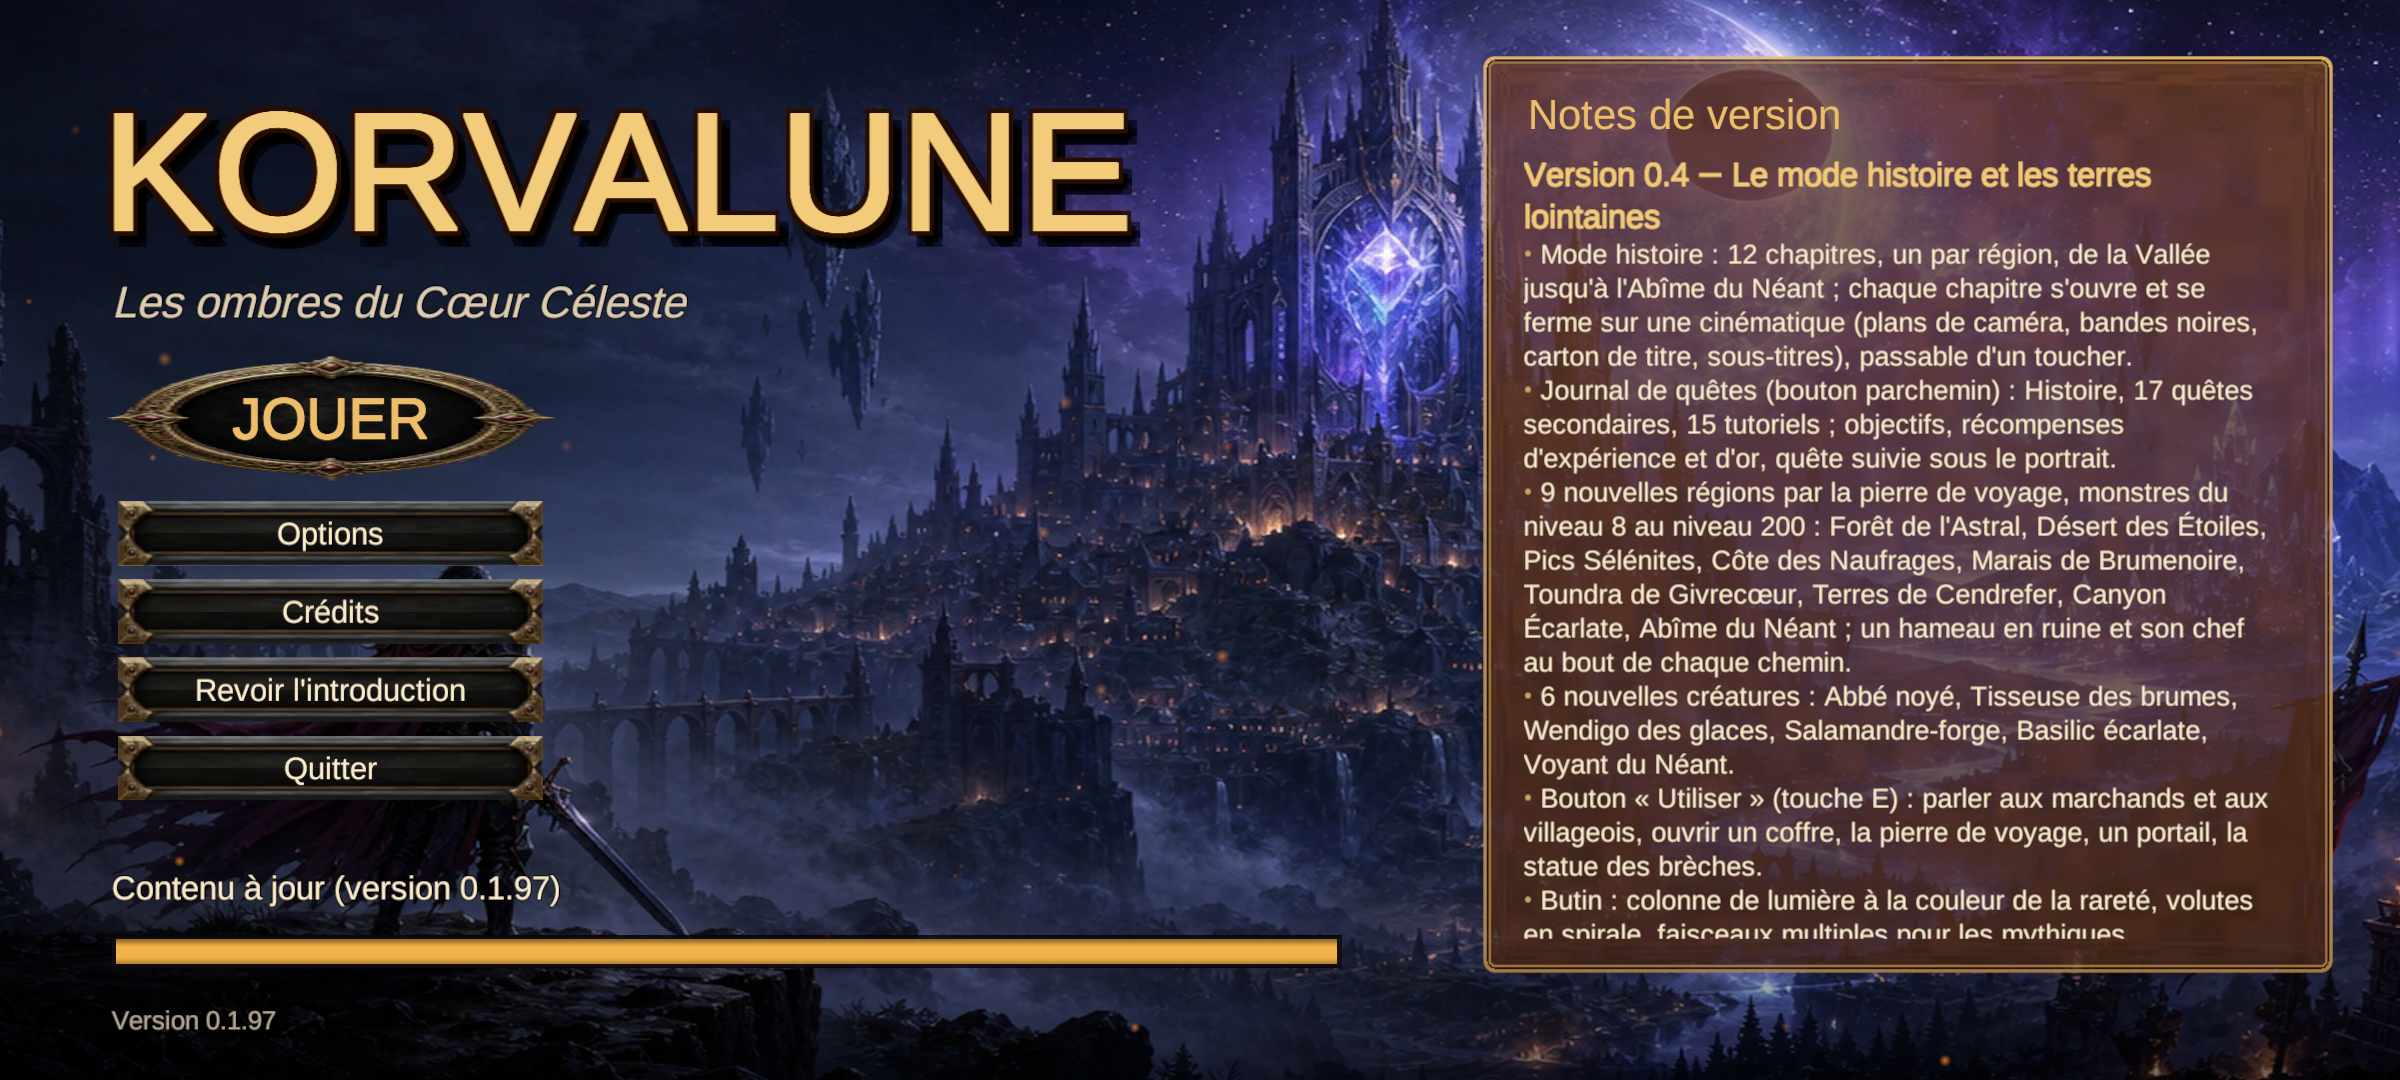
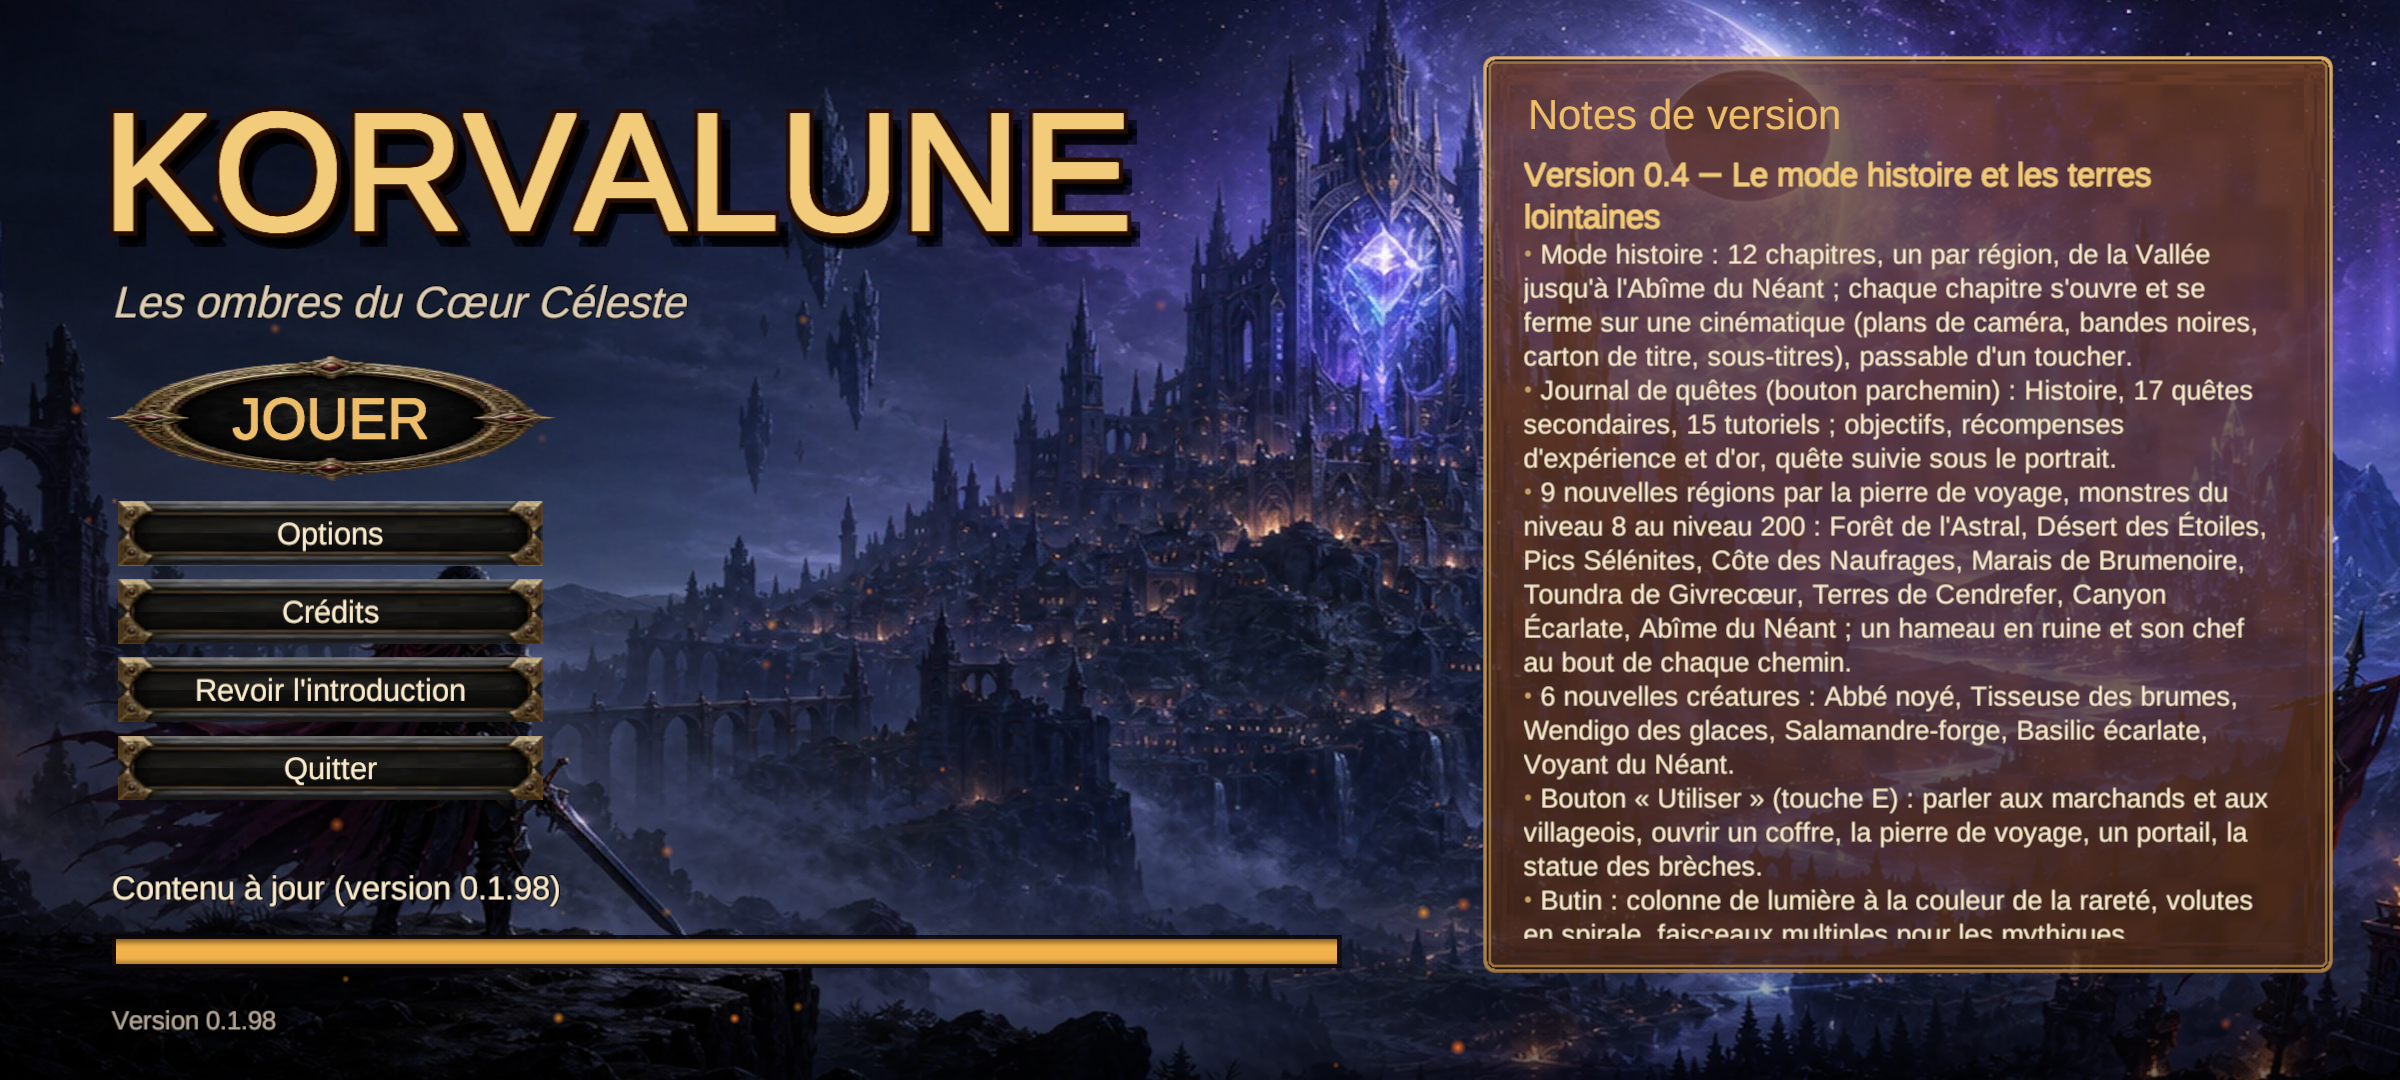
Android : APK construit et testé dans l'émulateur [skip ci]

diff --git a/ci-out/android/build.md b/ci-out/android/build.md
@@ -3,8 +3,8 @@
 - Scènes : Korvalune_Lanceur, Korvalune_Selection, CharacterCreator, Korvalune_Vallee, Korvalune_Crypte, Korvalune_Terriers, Korvalune_Eclipse, Korvalune_Breche, Korvalune_Foret, Korvalune_Desert, Korvalune_Pics, Korvalune_Cote, Korvalune_Marais, Korvalune_Toundra, Korvalune_Volcan, Korvalune_Canyon, Korvalune_Abime
 - Signature : clé Korvalune (mises à jour sans désinstaller)
 - Icône : Assets/Korvalune/Resources/UI/Icone.png
-- Contenu téléchargeable : 100 paquets, 722 Mo (release contenu-97)
-    - scenes : 146.4 Mo
+- Contenu téléchargeable : 100 paquets, 722 Mo (release contenu-98)
+    - scenes : 146.3 Mo
     - art_catalog_models : 58.3 Mo
     - art_catalog_skins : 34.6 Mo
     - art_heroes_varek_f : 19.0 Mo
@@ -16,8 +16,8 @@
     - art_heroes_kaeldraven_f : 17.2 Mo
     - art_heroes_kaeldraven_m : 16.7 Mo
     - art_heroes_tharion_f : 16.7 Mo
-- Résultat : **Succeeded** en 1.6 min, 0 erreur(s), 12 avertissement(s)
-- APK : 89.5 Mo, version 0.1.97
+- Résultat : **Succeeded** en 4.3 min, 0 erreur(s), 12 avertissement(s)
+- APK : 89.6 Mo, version 0.1.98
 
 ## Contenu empaqueté : 35 Mo
 - Texture2D : 23.0 Mo (295)
@@ -67,46 +67,46 @@
 
 ## Mémoire pendant la construction (dernières mesures)
 ```
-11:45:28 ram 4769/15983 swap 5/16383  3031892 Unity 453712 dotnet 
-11:45:33 ram 4694/15983 swap 5/16383  2838348 Unity 453712 dotnet 
-11:45:38 ram 4694/15983 swap 5/16383  2856752 Unity 453712 dotnet 
-11:45:43 ram 4690/15983 swap 5/16383  2889452 Unity 453688 dotnet 
-11:45:48 ram 4693/15983 swap 5/16383  2931800 Unity 453688 dotnet 
-11:45:53 ram 4946/15983 swap 5/16383  3185948 Unity 453712 dotnet 
-11:45:58 ram 5284/15983 swap 5/16383  3524672 Unity 453712 dotnet 
-11:46:03 ram 5698/15983 swap 5/16383  3940780 Unity 453712 dotnet 
-11:46:08 ram 5534/15983 swap 5/16383  3593472 Unity 453712 dotnet 
-11:46:13 ram 5482/15983 swap 5/16383  3723768 Unity 453692 dotnet 
-11:46:18 ram 5659/15983 swap 5/16383  3906480 Unity 453692 dotnet 
-11:46:24 ram 5486/15983 swap 5/16383  3743064 Unity 453692 dotnet 
-11:46:29 ram 5488/15983 swap 5/16383  3720884 Unity 453712 dotnet 
-11:46:34 ram 5474/15983 swap 5/16383  3758056 Unity 453712 dotnet 
-11:46:39 ram 5642/15983 swap 5/16383  3783672 Unity 453712 dotnet 
-11:46:44 ram 5641/15983 swap 5/16383  3918216 Unity 453692 dotnet 
-11:46:49 ram 5641/15983 swap 5/16383  3918216 Unity 453692 dotnet 
-11:46:54 ram 5640/15983 swap 5/16383  3918216 Unity 453712 dotnet 
-11:46:59 ram 5786/15983 swap 5/16383  3918300 Unity 453712 dotnet 
-11:47:04 ram 5823/15983 swap 5/16383  3839024 Unity 453712 dotnet 
-11:47:09 ram 5974/15983 swap 5/16383  3892336 Unity 453712 dotnet 
-11:47:14 ram 6025/15983 swap 5/16383  3897636 Unity 453692 dotnet 
-11:47:19 ram 6113/15983 swap 5/16383  3897636 Unity 453692 dotnet 
-11:47:24 ram 6121/15983 swap 5/16383  3897608 Unity 453692 dotnet 
-11:47:29 ram 6180/15983 swap 5/16383  3897608 Unity 453692 dotnet 
-11:47:34 ram 6351/15983 swap 5/16383  3897604 Unity 606108 java 
-11:47:39 ram 6293/15983 swap 5/16383  3897592 Unity 531844 java 
-11:47:44 ram 6362/15983 swap 5/16383  3897584 Unity 611332 java 
-11:47:49 ram 7051/15983 swap 5/16383  3897540 Unity 1228424 java 
-11:47:54 ram 7094/15983 swap 5/16383  3897512 Unity 1359904 java 
-11:47:59 ram 7409/15983 swap 5/16383  3897496 Unity 1432608 java 
-11:48:04 ram 7421/15983 swap 5/16383  3897472 Unity 1513520 java 
-11:48:09 ram 7294/15983 swap 5/16383  3897460 Unity 1576260 java 
-11:48:14 ram 7379/15983 swap 5/16383  3897460 Unity 1648028 java 
-11:48:19 ram 7430/15983 swap 5/16383  3897460 Unity 1668708 java 
-11:48:24 ram 7511/15983 swap 5/16383  3897460 Unity 1716392 java 
-11:48:29 ram 7503/15983 swap 5/16383  3897460 Unity 1711600 java 
-11:48:34 ram 7394/15983 swap 5/16383  3893400 Unity 1627276 java 
-11:48:39 ram 5552/15983 swap 5/16383  3727772 Unity 453860 dotnet 
-11:48:44 ram 1975/15983 swap 5/16383  453840 dotnet 339700 dotnet 
+18:17:58 ram 6490/15983 swap 5/16383  3905008 Unity 539468 clang++ 
+18:18:03 ram 6143/15983 swap 5/16383  3905008 Unity 454044 dotnet 
+18:18:08 ram 6089/15983 swap 5/16383  3905008 Unity 454056 dotnet 
+18:18:13 ram 6218/15983 swap 5/16383  3905008 Unity 454056 dotnet 
+18:18:18 ram 6488/15983 swap 5/16383  3905008 Unity 454056 dotnet 
+18:18:23 ram 6498/15983 swap 5/16383  3905012 Unity 454204 clang++ 
+18:18:28 ram 6491/15983 swap 5/16383  3905012 Unity 546648 clang++ 
+18:18:33 ram 6918/15983 swap 5/16383  3905012 Unity 826460 clang++ 
+18:18:39 ram 7015/15983 swap 5/16383  3905012 Unity 1081208 clang++ 
+18:18:44 ram 6163/15983 swap 5/16383  3905012 Unity 454184 dotnet 
+18:18:49 ram 6214/15983 swap 5/16383  3905012 Unity 454184 dotnet 
+18:18:54 ram 6251/15983 swap 5/16383  3905012 Unity 454184 dotnet 
+18:18:59 ram 5801/15983 swap 5/16383  3905012 Unity 454160 dotnet 
+18:19:04 ram 5805/15983 swap 5/16383  3905012 Unity 454160 dotnet 
+18:19:09 ram 5866/15983 swap 5/16383  3908240 Unity 454184 dotnet 
+18:19:14 ram 6144/15983 swap 5/16383  3908240 Unity 454184 dotnet 
+18:19:19 ram 6146/15983 swap 5/16383  3908240 Unity 454184 dotnet 
+18:19:24 ram 6156/15983 swap 5/16383  3908200 Unity 454184 dotnet 
+18:19:29 ram 6173/15983 swap 5/16383  3908172 Unity 454164 dotnet 
+18:19:34 ram 6377/15983 swap 5/16383  3908052 Unity 559136 java 
+18:19:39 ram 6300/15983 swap 5/16383  3908052 Unity 499264 java 
+18:19:44 ram 6340/15983 swap 5/16383  3908056 Unity 537068 java 
+18:19:49 ram 6395/15983 swap 5/16383  3908056 Unity 592264 java 
+18:19:54 ram 6431/15983 swap 5/16383  3908056 Unity 610072 java 
+18:19:59 ram 6851/15983 swap 5/16383  3908044 Unity 1024880 java 
+18:20:04 ram 6760/15983 swap 642/16383  3604556 Unity 1625292 java 
+18:20:09 ram 6857/15983 swap 739/16383  3604504 Unity 1786704 java 
+18:20:14 ram 6814/15983 swap 827/16383  3604504 Unity 1830568 java 
+18:20:19 ram 6851/15983 swap 954/16383  3500416 Unity 1923700 java 
+18:20:24 ram 6786/15983 swap 1209/16383  3250756 Unity 1944840 java 
+18:20:29 ram 6784/15983 swap 1209/16383  3250768 Unity 1968108 java 
+18:20:34 ram 6390/15983 swap 1411/16383  3045008 Unity 1983724 java 
+18:20:39 ram 6388/15983 swap 1411/16383  3045048 Unity 1972412 java 
+18:20:44 ram 5817/15983 swap 2053/16383  2460884 Unity 2021344 java 
+18:20:49 ram 4952/15983 swap 2429/16383  2077148 Unity 1486968 java 
+18:20:54 ram 4847/15983 swap 2391/16383  2129608 Unity 1423624 java 
+18:20:59 ram 5121/15983 swap 2308/16383  2337192 Unity 1423672 java 
+18:21:04 ram 5325/15983 swap 2308/16383  2520788 Unity 1423812 java 
+18:21:09 ram 3836/15983 swap 2155/16383  2463108 Unity 224696 dotnet 
+18:21:14 ram 1524/15983 swap 457/16383  224696 dotnet 191264 MainThread 
 ```
 ## Noyau (OOM)
 ```

diff --git a/ci-out/android/test.md b/ci-out/android/test.md
@@ -1,7 +1,7 @@
 # Test de l'APK dans un émulateur Android (API 30, x86_64)
 
 - Android 11
-- APK : 89.5 Mo
+- APK : 89.6 Mo
 - ✅ Installation
 - ✅ Jeu en cours d'exécution à 20 s (capture ecran_20s.png)
 - ✅ Jeu en cours d'exécution à 45 s (capture ecran_45s.png)
@@ -13,7 +13,6 @@
     [Korvalune] partie automatique : activée
     [Korvalune][test] lanceur prêt : on joue
     [Korvalune][test] chargement de la scène « Korvalune_Vallee » avec Testeur
-    [Korvalune][test] chargement 90 %
     [Korvalune][test] chargement 90 %
     [Korvalune][test] chargement 90 %
     [Korvalune][test] chargement 90 %
